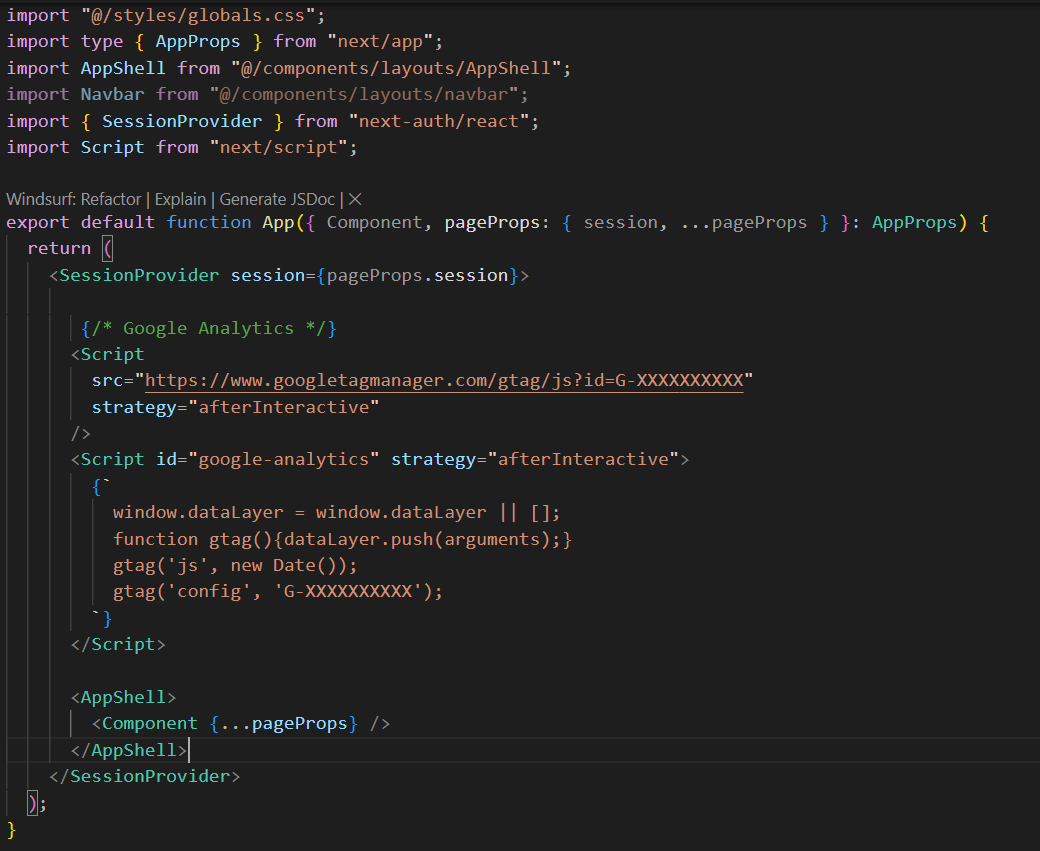
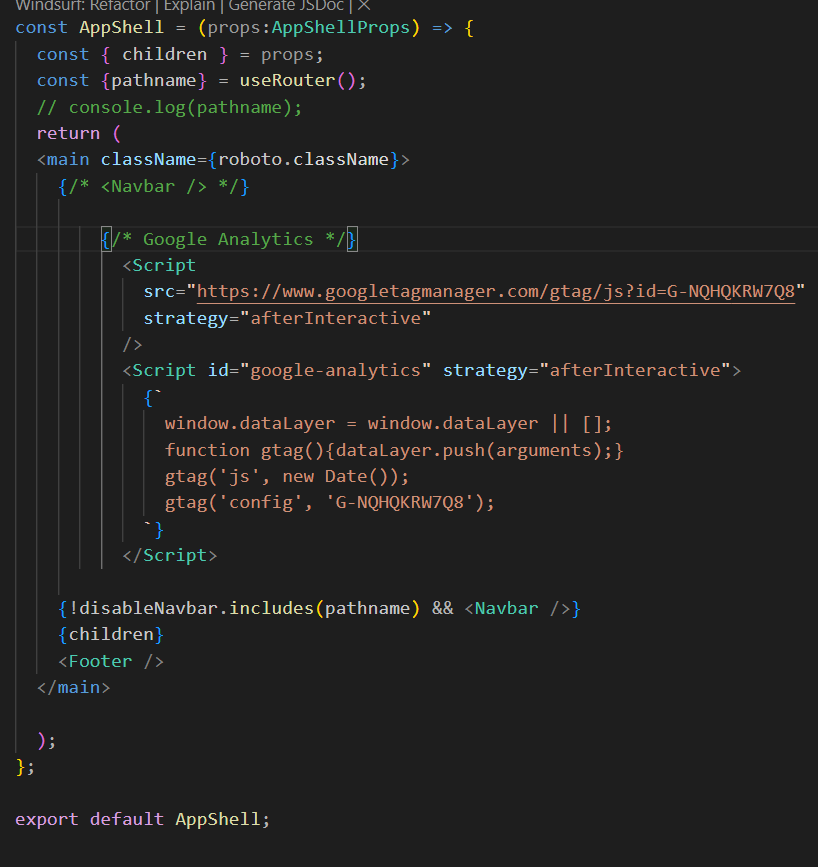
js 18 - Tugas 4

diff --git a/Praktikum_18/my-app/src/components/layouts/AppShell/index.tsx b/Praktikum_18/my-app/src/components/layouts/AppShell/index.tsx
@@ -1,32 +1,53 @@
-import {useRouter} from "next/router";
-import Navbar from "../navbar";
-import Footer from "../footer";
+import { useRouter } from "next/router";
+import dynamic from "next/dynamic";
 import { Roboto } from "next/font/google";
+import Script from "next/script";
 
+// Dynamic import
+const Navbar = dynamic(() => import("../navbar"), {
+  loading: () => <p>Loading Navbar...</p>,
+});
+
+const Footer = dynamic(() => import("../footer"), {
+  loading: () => <p>Loading Footer...</p>,
+});
 
 const disableNavbar = ["/auth/login", "/auth/register", "/404"];
 
 type AppShellProps = {
   children: React.ReactNode;
-}
+};
 
 const roboto = Roboto({
   subsets: ["latin"],
   weight: ["400", "500", "700"],
 });
 
-const AppShell = (props:AppShellProps) => {
+const AppShell = (props: AppShellProps) => {
   const { children } = props;
-  const {pathname} = useRouter();
-  // console.log(pathname);
-  return (
-  <main className={roboto.className}>
-    {/* <Navbar /> */}
-    {!disableNavbar.includes(pathname) && <Navbar />}
-    {children}
-    <Footer />
-  </main>
+  const { pathname } = useRouter();
 
+  return (
+    <main className={roboto.className}>
+      
+      {/* Google Analytics */}
+      <Script
+        src="https://www.googletagmanager.com/gtag/js?id=G-NQHQKRW7Q8"
+        strategy="afterInteractive"
+      />
+      <Script id="google-analytics" strategy="afterInteractive">
+        {`
+          window.dataLayer = window.dataLayer || [];
+          function gtag(){dataLayer.push(arguments);}
+          gtag('js', new Date());
+          gtag('config', 'G-NQHQKRW7Q8');
+        `}
+      </Script>
+
+      {!disableNavbar.includes(pathname) && <Navbar />}
+      {children}
+      <Footer />
+    </main>
   );
 };
 

diff --git a/Praktikum_18/my-app/src/pages/_app.tsx b/Praktikum_18/my-app/src/pages/_app.tsx
@@ -8,21 +8,6 @@ import Script from "next/script";
 export default function App({ Component, pageProps: { session, ...pageProps } }: AppProps) {
   return (
     <SessionProvider session={pageProps.session}>
-
-       {/* Google Analytics */}
-      <Script
-        src="https://www.googletagmanager.com/gtag/js?id=G-NQHQKRW7Q8"
-        strategy="afterInteractive"
-      />
-      <Script id="google-analytics" strategy="afterInteractive">
-        {`
-          window.dataLayer = window.dataLayer || [];
-          function gtag(){dataLayer.push(arguments);}
-          gtag('js', new Date());
-          gtag('config', 'G-NQHQKRW7Q8');
-        `}
-      </Script>
-
       <AppShell>
         <Component {...pageProps} />
       </AppShell>
